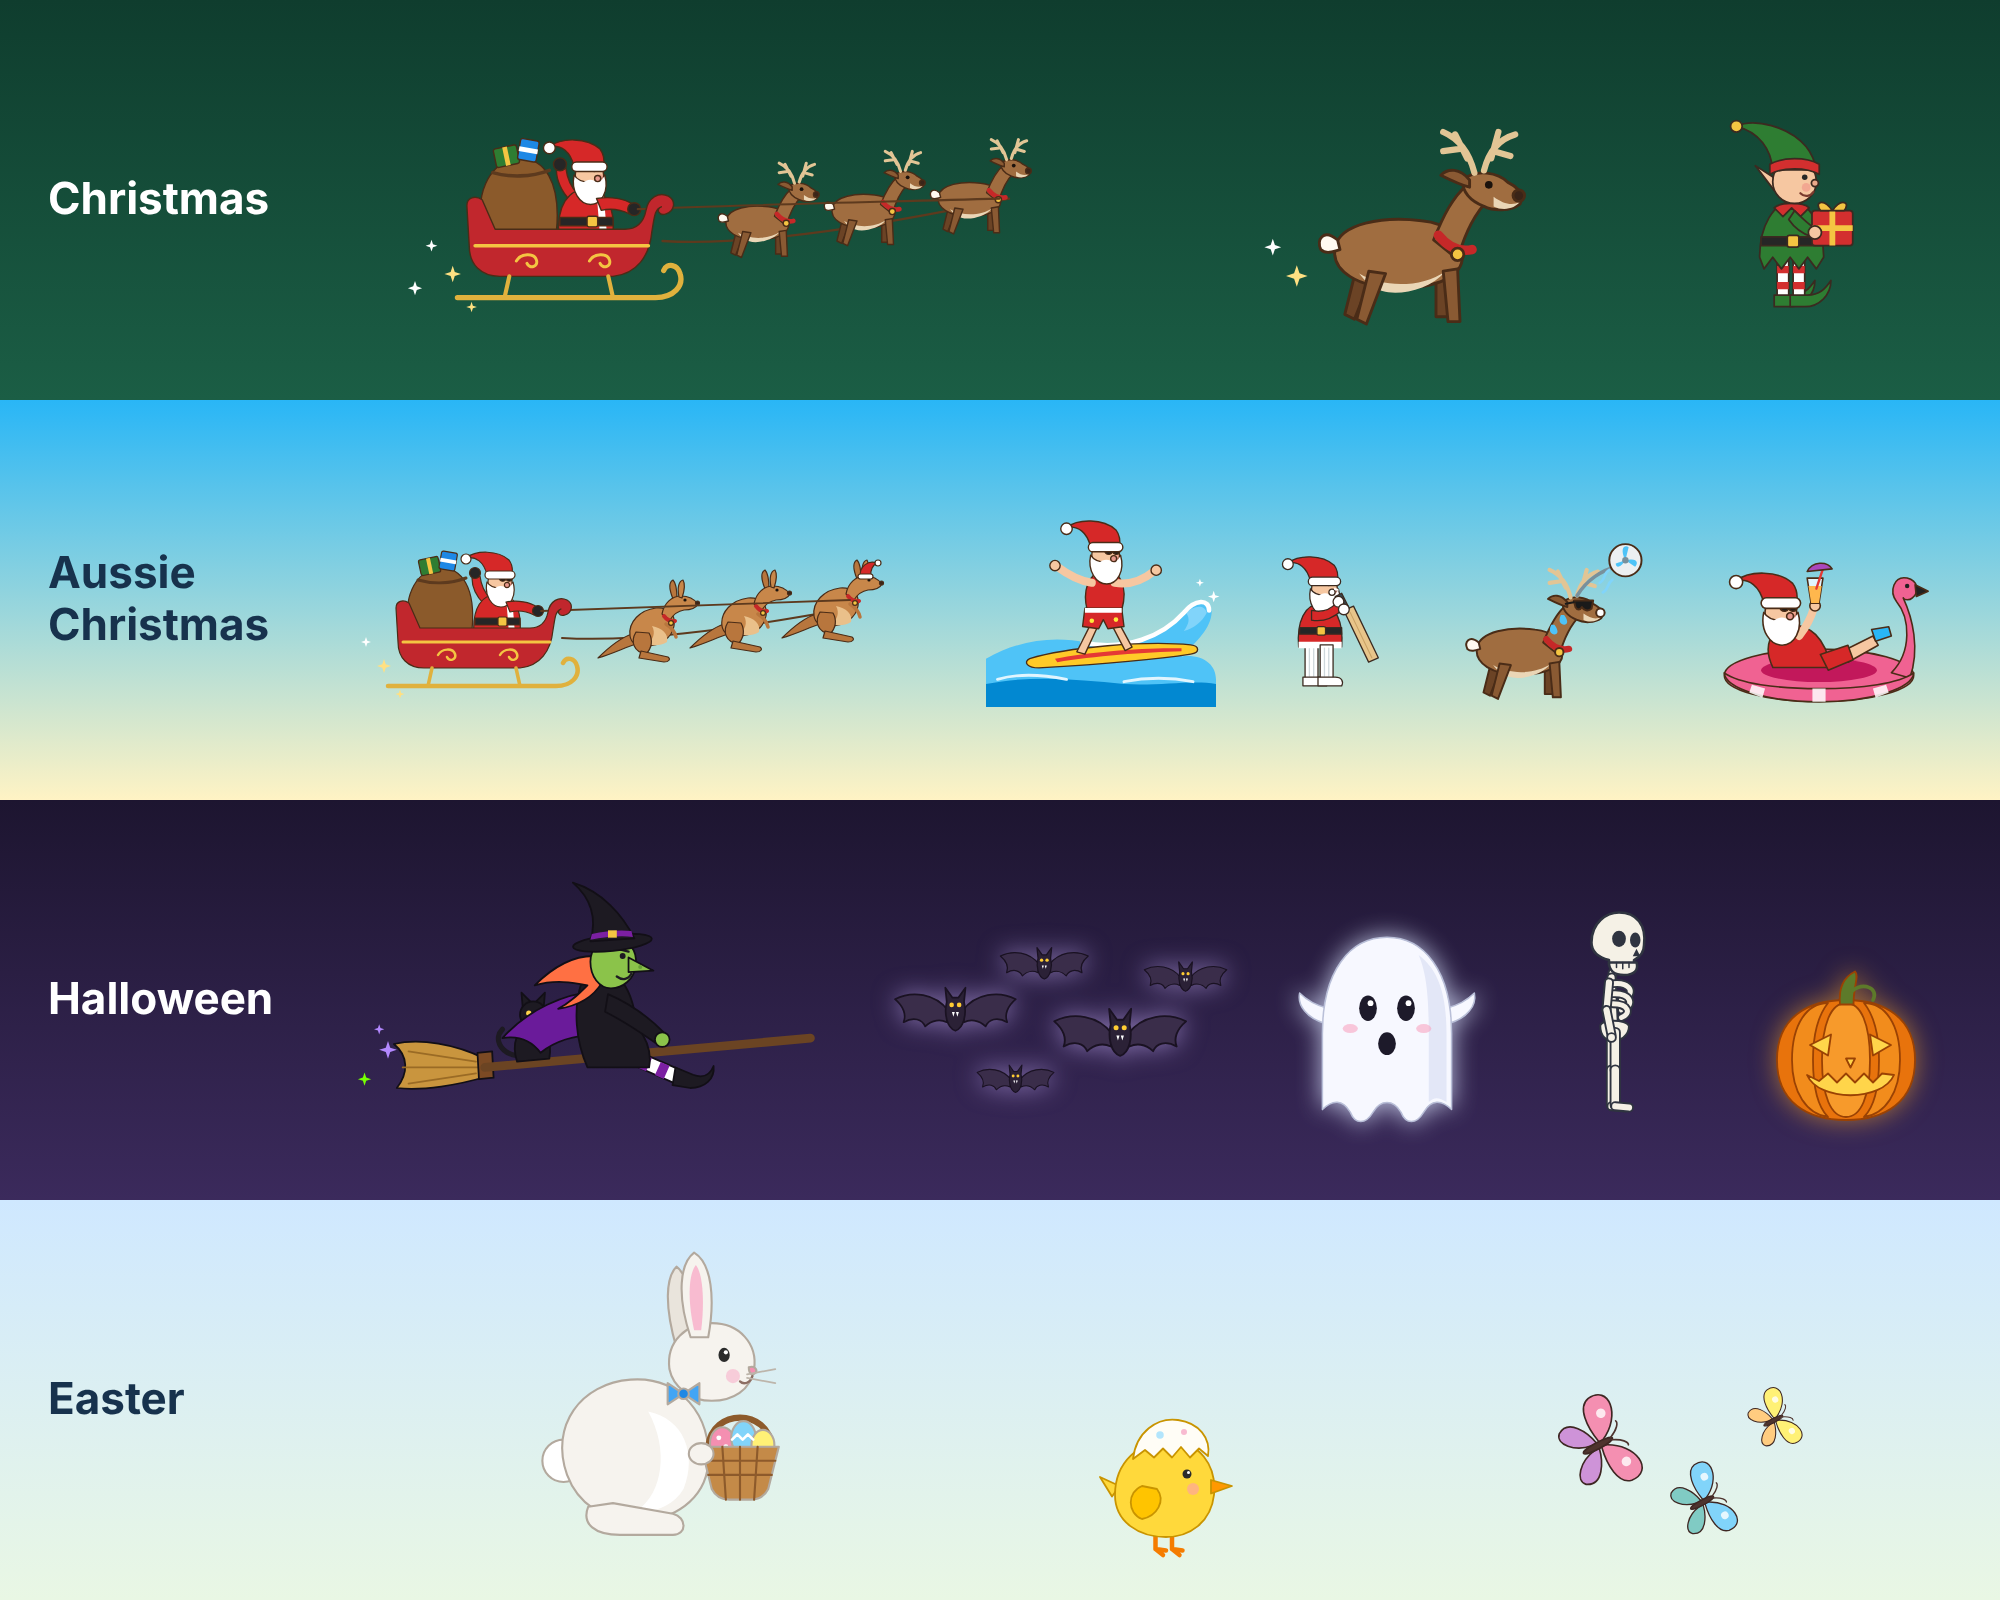
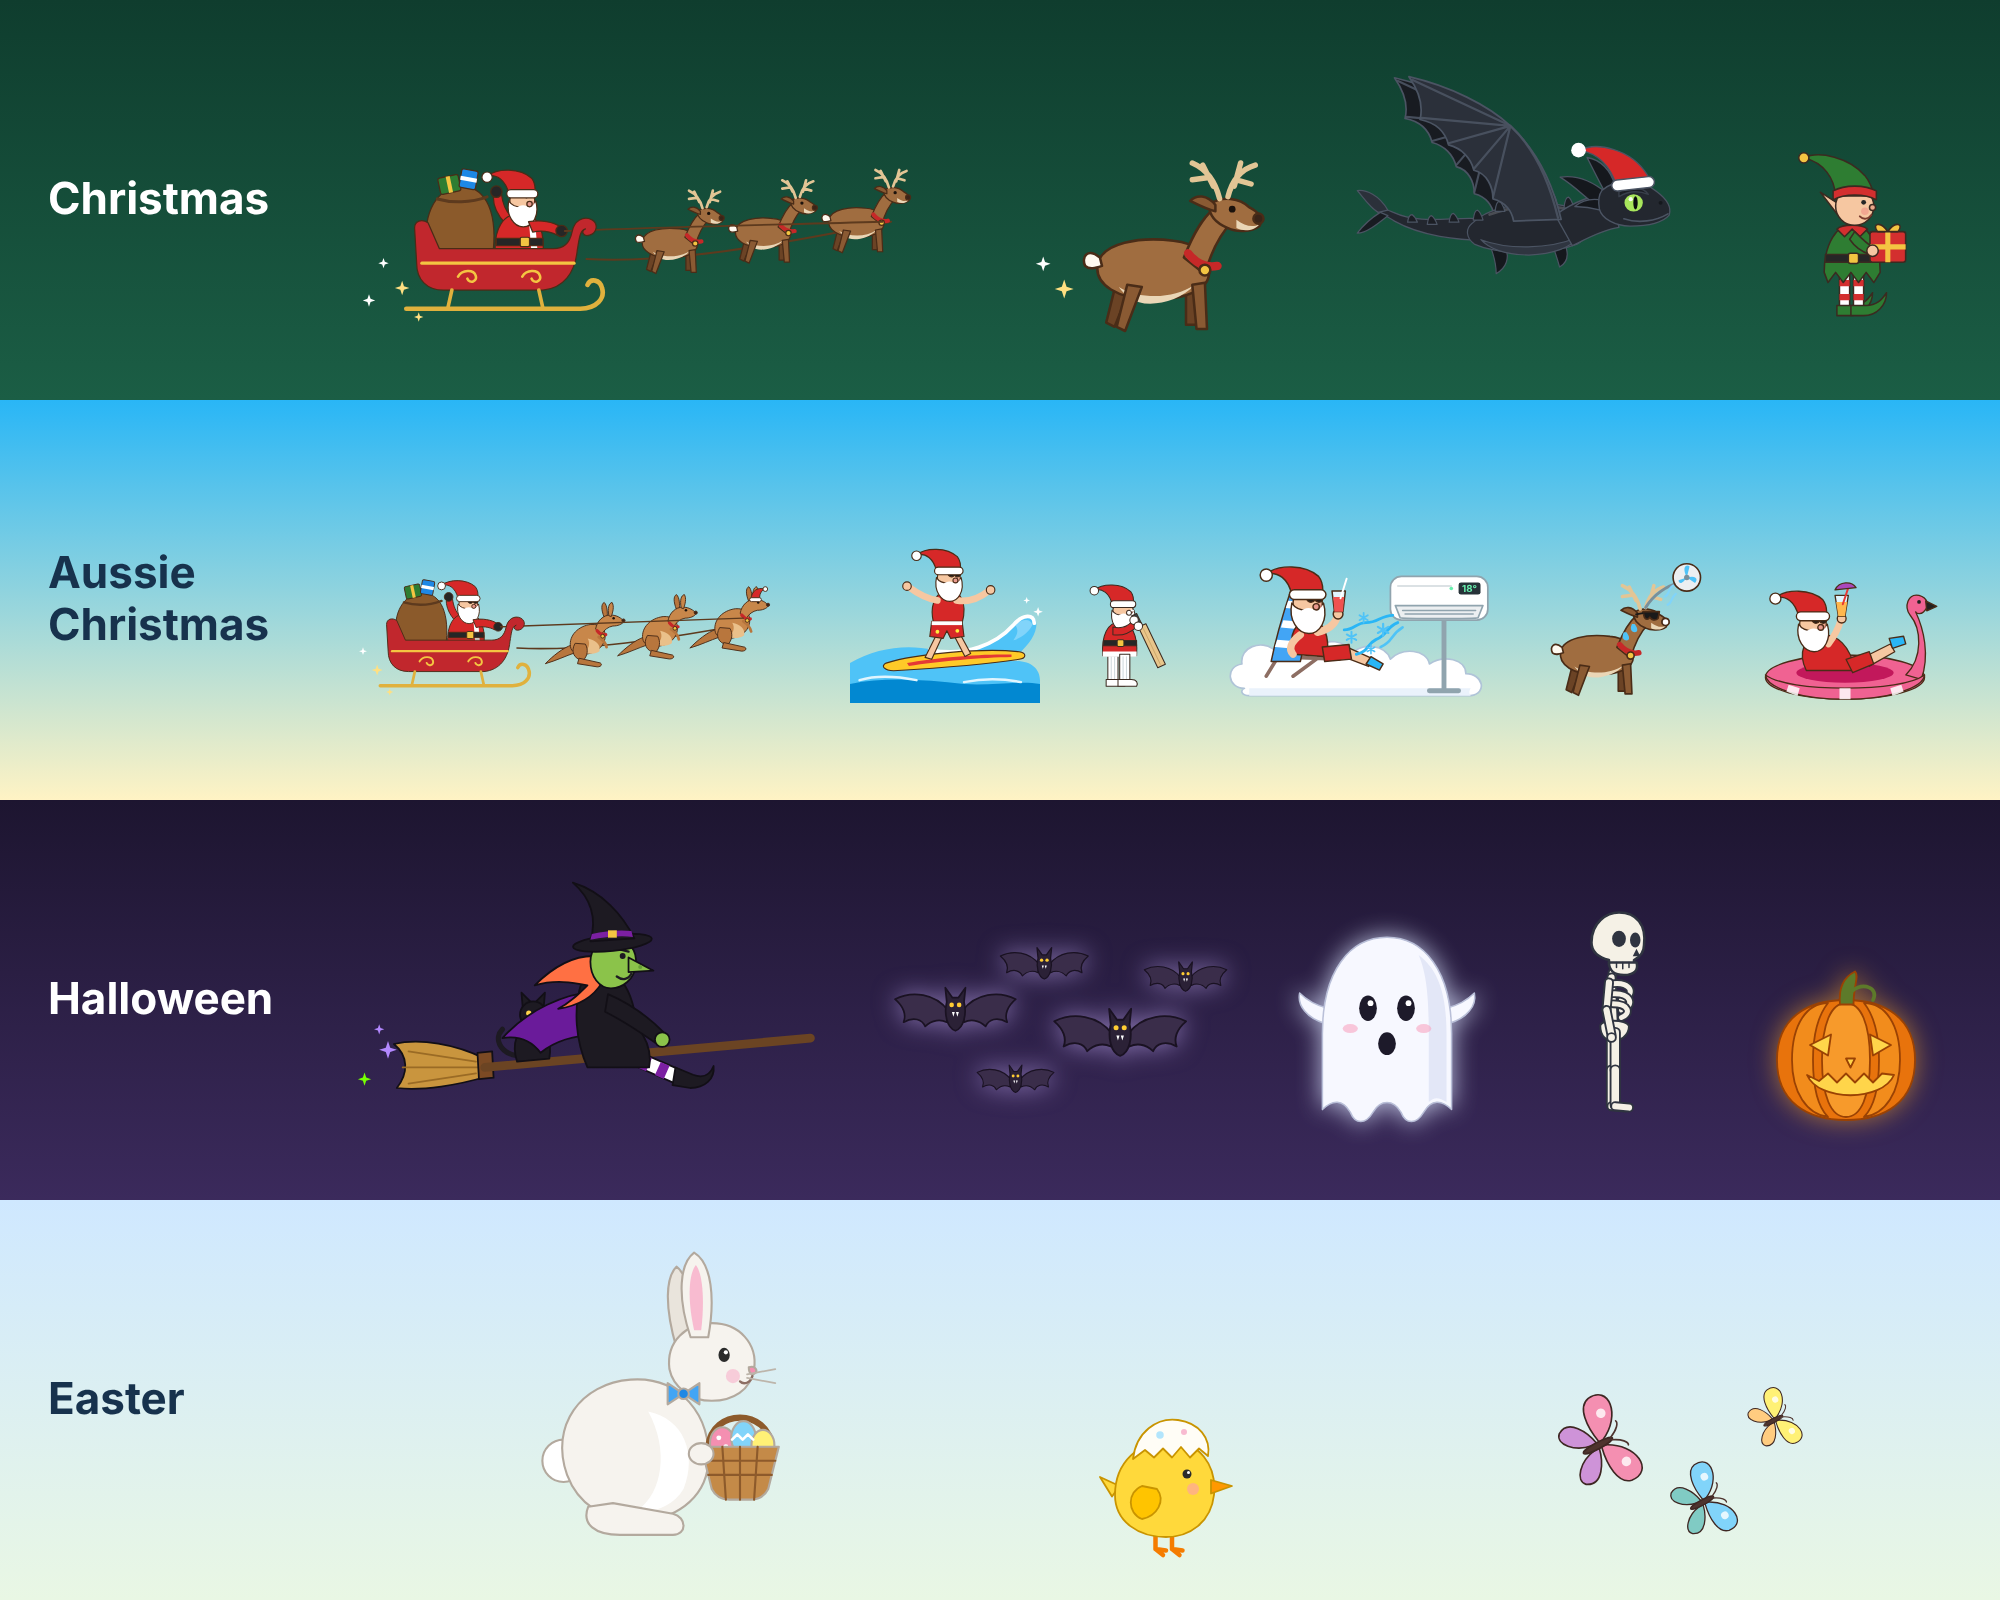
Add air conditioner scene and Santa-hat dragon
- Australian Christmas: Santa relaxes in a deckchair on a cloud in front of
  an air conditioner blowing icy wind and snowflakes
- Both Christmas themes: the Shadow Wing dragon flies by in a Santa hat
- Characters can now belong to more than one theme
- Add-on bumped to 1.4.0

Claude-Session: https://claude.ai/code/session_019d3NR3Ga8swJWJbFGRjCq6

diff --git a/dragon_flyby/www/dragon-flyby.js b/dragon_flyby/www/dragon-flyby.js
@@ -35,7 +35,7 @@
  *   dragonFlyby.fly("sleigh")     - a specific visitor (see dragonFlyby.characters)
  */
 
-const VERSION = "1.3.0";
+const VERSION = "1.4.0";
 const DEFAULT_DURATION_S = 5;
 const MAX_DURATION_S = 10;
 const SIZES = { small: 170, medium: 250, large: 350 };
@@ -261,7 +261,13 @@ function blast(d) {
 // Scale a part up around the shoulder joint.
 const grow = (k) => `translate(172 97) scale(${k}) translate(-172 -97)`;
 
-function dragonSvg(d) {
+// A floppy Santa hat for the Christmas dragon, in head coordinates.
+const SANTA_HAT = `
+    <path fill="#d62828" d="M240 70 C235 54 226 44 210 41 C224 34 252 40 265 61 C267 64 268 67 268 70 Z"/>
+    <rect fill="#ffffff" x="236" y="64" width="35" height="9" rx="4.5" transform="rotate(-6 253 68)"/>
+    <circle fill="#ffffff" cx="209" cy="41" r="6"/>`;
+
+function dragonSvg(d, { santaHat = false } = {}) {
   return `
 <svg class="dragon" viewBox="0 -40 320 240" xmlns="http://www.w3.org/2000/svg">
   <g class="wing wing-far"><g transform="${grow(WING_SCALE * 0.95)} translate(-14 -4)">
@@ -287,7 +293,7 @@ function dragonSvg(d) {
     <path fill="${d.body}" d="${NECK_PATH}"/>
     <g fill="${d.head === "ears" ? d.shade : d.accent}">${headGear(d)}</g>
     <path fill="${d.body}" d="${HEAD_PATH}"/>
-    <path fill="${d.shade}" opacity="0.55" d="M242 75 C250 70 262 71 266 77 C258 74 250 74 242 79 Z"/>
+    <path fill="${d.shade}" opacity="0.55" d="M242 75 C250 70 262 71 266 77 C258 74 250 74 242 79 Z"/>${santaHat ? SANTA_HAT : ""}
     <path class="jaw" d="${JAW_PATH}"/>
     <circle fill="${d.shade}" cx="276" cy="84" r="1.6"/>
     <ellipse fill="${d.eye}" cx="254" cy="84" rx="7.5" ry="7"/>
@@ -599,7 +605,49 @@ function floatieSvg() {
   </svg>`;
 }
 
+function snowflake(x, y, s, delay) {
+  return `<g transform="translate(${x} ${y}) scale(${s})"><path class="ln blow" style="stroke:#4fc3f7;stroke-width:1.8;animation-delay:${delay}s" d="M0 -5 L0 5 M-4.3 -2.5 L4.3 2.5 M-4.3 2.5 L4.3 -2.5"/></g>`;
+}
+
+function airconSvg() {
+  const cloud = "stroke:#b0c4d8;stroke-width:1.4";
+  const unit = "stroke:#90a4ae;stroke-width:1.4";
+  return `${svgOpen("aircon", [0, -40, 230, 170])}
+    <path fill="#ffffff" style="${cloud}" d="M20 118 C6 118 4 100 18 98 C16 84 34 78 44 86 C50 72 72 72 78 86 C86 76 104 78 108 90 C116 80 136 82 140 94 C150 84 170 86 172 98 C184 90 202 94 202 106 C216 106 220 122 206 124 L24 124 C18 124 16 120 20 118 Z"/>
+    <path class="ns" fill="#eaf2fb" d="M24 118 L206 118 C204 121 205 123 206 124 L24 124 Z"/>
+    <path class="ln" style="stroke:#8d6e63;stroke-width:3" d="M38 108 L72 52 M60 108 L90 86 M46 92 L98 94"/>
+    <path fill="#42a5f5" d="M58 38 L80 40 C76 58 70 76 66 96 L42 96 C46 76 52 56 58 38 Z"/>
+    <path class="ns" fill="#ffffff" d="M56 46 L78 48 L77 54 L54 52 Z M52 62 L74 64 L72 70 L50 68 Z M47 78 L70 80 L69 86 L45 84 Z"/>
+    <path fill="#d62828" d="M60 90 C56 74 62 62 74 62 C86 62 90 76 88 92 Z"/>
+    <path fill="#f6c7a1" d="M104 84 L126 94 L122 100 L101 92 Z"/>
+    <path fill="#d62828" d="M84 84 L106 82 L108 94 L86 96 Z"/>
+    <path fill="#29b6f6" d="M124 92 L134 98 L131 103 L120 98 Z"/>
+    <path class="ln" style="stroke:#f6c7a1;stroke-width:6" d="M66 74 C58 80 56 86 60 90"/>
+    <path class="ln" style="stroke:#f6c7a1;stroke-width:6" d="M80 72 C88 70 94 66 96 60"/>
+    <circle fill="#f6c7a1" cx="97" cy="57" r="4"/>
+    <path fill="#e1f5fe" d="M92 38 L103 38 L101 55 L94 55 Z"/>
+    <path class="ns" fill="#ef5350" d="M93 43 L102 43 L101 55 L94 55 Z"/>
+    <path class="ln" style="stroke:#ffffff;stroke-width:1.6" d="M99 44 L104 28"/>
+    ${santaHead(72, 48, { sunnies: true })}
+    <path class="ln" style="stroke:#90a4ae;stroke-width:4" d="M184 118 L184 62 M172 120 L196 120"/>
+    <rect fill="#ffffff" style="${unit}" x="140" y="26" width="80" height="36" rx="9"/>
+    <path class="ln" style="stroke:#cfd8dc;stroke-width:1.2" d="M146 34 L190 34"/>
+    <path fill="#eceff1" style="${unit}" d="M144 50 L216 50 L212 60 C210 61 150 61 148 60 Z"/>
+    <path class="ln" style="stroke:#90a4ae;stroke-width:1.2" d="M150 54 L210 54 M152 57 L208 57"/>
+    <rect class="ns" fill="#263238" x="196" y="31" width="18" height="10" rx="2"/>
+    <text x="205" y="39" text-anchor="middle" font-size="8" font-weight="700" fill="#69f0ae">18°</text>
+    <circle class="ns" fill="#69f0ae" cx="190" cy="36" r="1.5"/>
+    <path class="ln blow" style="stroke:#29b6f6;stroke-width:2.4" d="M146 64 C136 68 138 74 128 78 C120 82 122 88 112 90"/>
+    <path class="ln blow" style="stroke:#4fc3f7;stroke-width:2.2;animation-delay:-0.4s" d="M150 68 C140 74 142 80 132 84"/>
+    <path class="ln blow" style="stroke:#29b6f6;stroke-width:2.2;animation-delay:-0.8s" d="M142 58 C132 58 130 64 120 64 C112 64 110 70 102 70"/>
+    ${snowflake(134, 70, 1, 0)}${snowflake(118, 60, 0.8, -0.35)}${snowflake(124, 86, 0.7, -0.7)}${snowflake(108, 76, 0.9, -1.0)}
+    ${speech(10, -40, 124, "Ahhh, bliss!", "#0277bd")}
+  </svg>`;
+}
+
 const AUSSIE_CSS = `${CHRISTMAS_CSS}
+.blow { animation: blow 1.2s linear infinite; }
+@keyframes blow { 0% { opacity: 0; transform: translateX(0); } 25% { opacity: 1; } 100% { opacity: 0; transform: translateX(-34px); } }
 .roo { animation: roo-hop var(--cycle) ease-in-out infinite; }
 .roo-leg { transform-box: fill-box; transform-origin: 30% 10%; animation: roo-kick var(--cycle) ease-in-out infinite; }
 .rider { transform-box: fill-box; transform-origin: 50% 100%; animation: rock calc(var(--cycle) * 2) ease-in-out infinite; }
@@ -886,8 +934,9 @@ const DRAGON_CSS = `
 /* ------------------------------------------------------------------------ */
 // motion: fly | float travel through the air, walk | hop | surf along the bottom.
 // scale: width relative to the size option. vb: the SVG viewBox.
-// weight: how often it is picked within its theme. flip: false keeps
-// front-facing art (and its text) unmirrored when travelling left.
+// theme: one theme or a list of themes. weight: how often it is picked within
+// its theme. flip: false keeps front-facing art (and its text) unmirrored
+// when travelling left.
 
 const dragonActor = (key) => ({
   theme: "dragons", name: DRAGONS[key].name, motion: "fly", bob: "fly",
@@ -908,6 +957,11 @@ const ACTORS = {
     theme: "christmas", name: "Santa's sleigh", motion: "fly", bob: "gentle",
     scale: 2, maxWidth: 0.75, vb: [0, -40, 560, 210], weight: 3, cycle: 0.5, tilt: 10,
     line: "#4a2c17", css: CHRISTMAS_CSS, event: SAY, svg: sleighSvg,
+  },
+  xmasdragon: {
+    ...dragonActor("shadow"), theme: ["christmas", "australianchristmas"],
+    name: "Dragon in a Santa hat", weight: 2,
+    svg: () => dragonSvg(DRAGONS.shadow, { santaHat: true }),
   },
   reindeer: {
     theme: "christmas", name: "Flying reindeer", motion: "fly", bob: "gentle",
@@ -939,6 +993,11 @@ const ACTORS = {
     theme: "australianchristmas", name: "Reindeer keeping cool", motion: "walk",
     scale: 0.62, vb: [0, -34, 124, 112], weight: 2, cycle: 0.5,
     line: "#4a2c17", css: AUSSIE_CSS, svg: coolReindeerSvg,
+  },
+  aircon: {
+    theme: "australianchristmas", name: "Santa cooling off by the air conditioner", motion: "float", bob: "float",
+    scale: 1, vb: [0, -40, 230, 170], weight: 3, cycle: 0.6, tilt: 4, waves: [1, 1.8],
+    line: "#4a2c17", css: AUSSIE_CSS, event: SAY, svg: airconSvg,
   },
   floatie: {
     theme: "australianchristmas", name: "Santa on a pool floatie", motion: "float", bob: "float",
@@ -1106,7 +1165,7 @@ function createFlyby(cfg) {
     if (request && ACTORS[request]) return request;
     const theme = THEMES.includes(request) ? request : activeTheme(cfg);
     if (theme === "dragons" && cfg.dragon !== "random") return cfg.dragon;
-    let cast = Object.keys(ACTORS).filter((k) => ACTORS[k].theme === theme);
+    let cast = Object.keys(ACTORS).filter((k) => [].concat(ACTORS[k].theme).includes(theme));
     if (cast.length > 1) cast = cast.filter((k) => k !== lastKey);
     const total = cast.reduce((sum, k) => sum + ACTORS[k].weight, 0);
     let roll = Math.random() * total;

diff --git a/README.md b/README.md
@@ -21,8 +21,8 @@ Set the `theme` option to swap the dragons for seasonal visitors. They follow th
 
 | Theme | Who shows up |
 | --- | --- |
-| `christmas` | Santa's sleigh and reindeer fly by ("Ho ho ho!"), a lone reindeer gallops across the sky, an elf walks along the bottom carrying a present. |
-| `australianchristmas` | Christmas in an Aussie summer: Santa's sleigh pulled by hopping kangaroos ("G'day!"), Santa surfing a wave along the bottom, Santa in cricket pads and zinc cream running between the wickets ("Yes! Run!"), a reindeer in sunnies cooling off with a fan, and Santa drifting past on a flamingo pool floatie with a cold drink. |
+| `christmas` | Santa's sleigh and reindeer fly by ("Ho ho ho!"), a lone reindeer gallops across the sky, a dragon flies by in a Santa hat, an elf walks along the bottom carrying a present. |
+| `australianchristmas` | Christmas in an Aussie summer: Santa's sleigh pulled by hopping kangaroos ("G'day!"), Santa surfing a wave along the bottom, Santa in cricket pads and zinc cream running between the wickets ("Yes! Run!"), Santa cooling off in a deckchair in front of the air conditioner ("Ahhh, bliss!"), a reindeer in sunnies cooling off with a fan, Santa drifting past on a flamingo pool floatie with a cold drink, and the dragon in a Santa hat. |
 | `halloween` | A witch on her broomstick (with her cat) and a swarm of bats fly by, a ghost floats past ("BOO!"), a skeleton walks and a jack-o'-lantern hops along the bottom. |
 | `easter` | The Easter bunny hops along the bottom with a basket of eggs, a chick in its eggshell waddles past, butterflies flutter by. |
 | `auto` | Follows the calendar: Halloween all of October, Christmas all of December (the Australian one if Home Assistant is set to Australia), Easter from a week before Easter Sunday to Easter Monday, dragons the rest of the year. |

diff --git a/dragon_flyby/DOCS.md b/dragon_flyby/DOCS.md
@@ -31,8 +31,8 @@ After changing options, start the add-on again and refresh your dashboards.
 | Theme | Who shows up |
 | --- | --- |
 | `dragons` | Four original dragons inspired by *How to Train Your Dragon*. |
-| `christmas` | Santa's sleigh and reindeer, a flying reindeer, an elf walking along the bottom with a present. |
-| `australianchristmas` | Santa's sleigh pulled by kangaroos, Santa surfing, Santa playing cricket, a reindeer cooling off with a fan, Santa on a flamingo pool floatie. |
+| `christmas` | Santa's sleigh and reindeer, a flying reindeer, a dragon in a Santa hat, an elf walking along the bottom with a present. |
+| `australianchristmas` | Santa's sleigh pulled by kangaroos, Santa surfing, Santa playing cricket, Santa cooling off in front of the air conditioner, a reindeer with a fan, Santa on a flamingo pool floatie, a dragon in a Santa hat. |
 | `halloween` | A witch on a broomstick, a swarm of bats, a ghost, a skeleton walking and a jack-o'-lantern hopping along the bottom. |
 | `easter` | The Easter bunny hopping with a basket of eggs, a chick waddling, butterflies. |
 | `auto` | Halloween in October, Christmas in December (the Australian one if Home Assistant's country or time zone is Australia), Easter from a week before Easter Sunday to Easter Monday, dragons the rest of the year. |

diff --git a/dragon_flyby/CHANGELOG.md b/dragon_flyby/CHANGELOG.md
@@ -1,5 +1,10 @@
 # Changelog
 
+## 1.4.0
+
+- Australian Christmas: Santa relaxes in a deckchair in front of an air conditioner, with icy wind and snowflakes ("Ahhh, bliss!").
+- Both Christmas themes: a dragon flies by wearing a Santa hat.
+
 ## 1.3.0
 
 - New `australianchristmas` theme: Santa's sleigh pulled by kangaroos, Santa surfing, Santa running between the wickets, a reindeer keeping cool with a fan, and Santa drifting by on a flamingo pool floatie.
